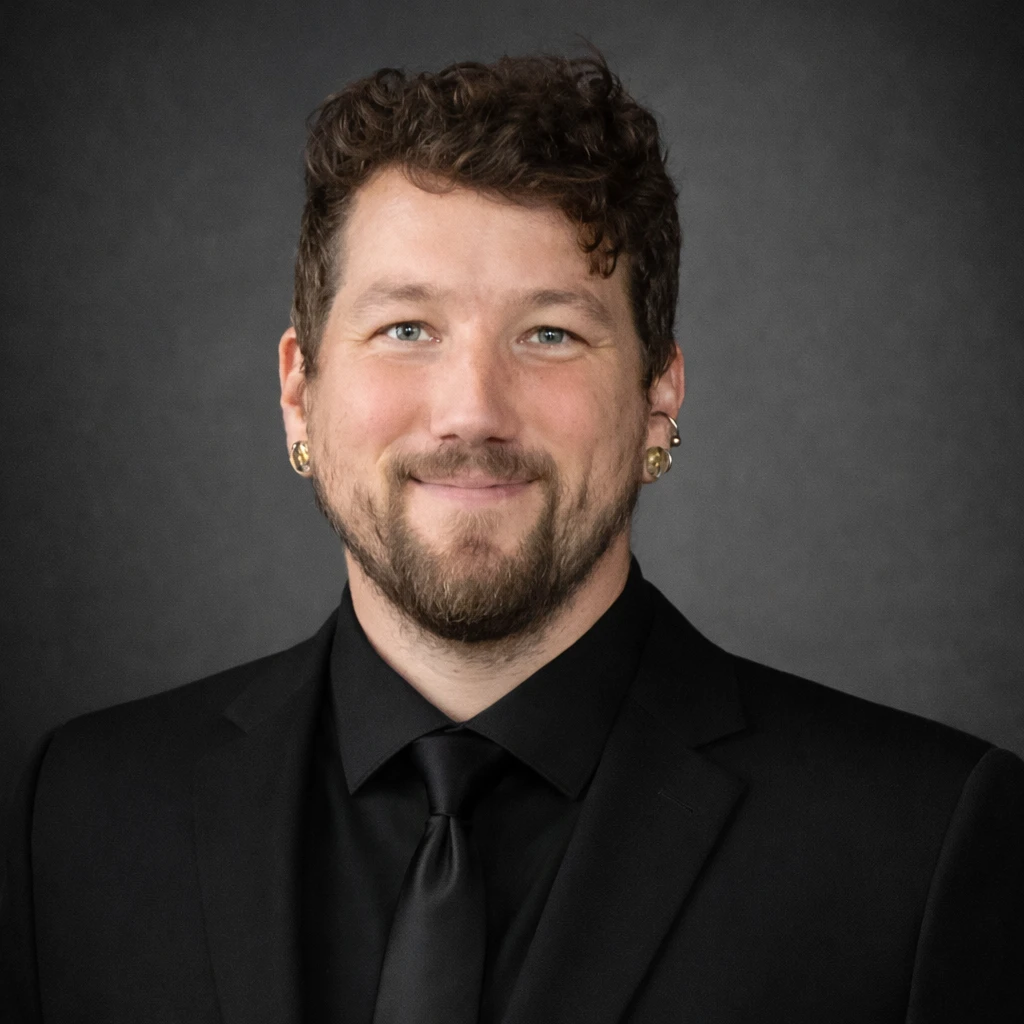
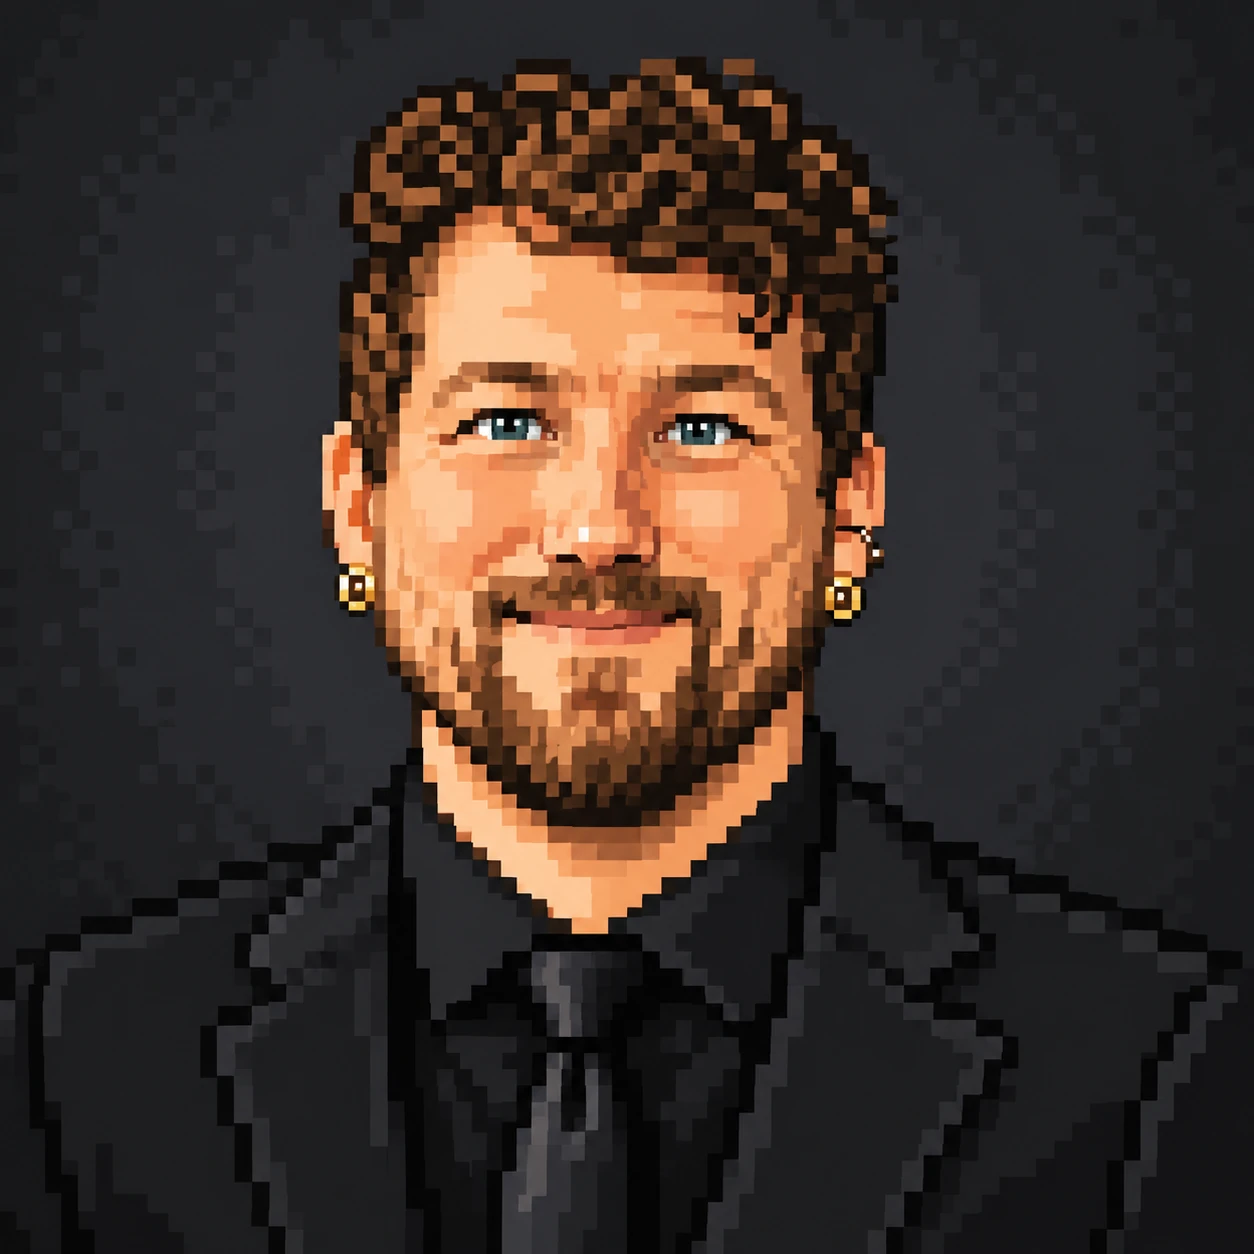
Swap hero photo for a pixel-art portrait
Drops the grayscale/contrast filter since the new portrait is already
styled as color pixel art, which fits the retro theme on its own.

diff --git a/src/app/page.tsx b/src/app/page.tsx
@@ -13,7 +13,7 @@ export default function Home() {
             width={200}
             height={200}
             priority
-            className="w-32 shrink-0 object-cover grayscale contrast-125 sm:w-40"
+            className="w-32 shrink-0 object-cover sm:w-40"
           />
         </div>
 
